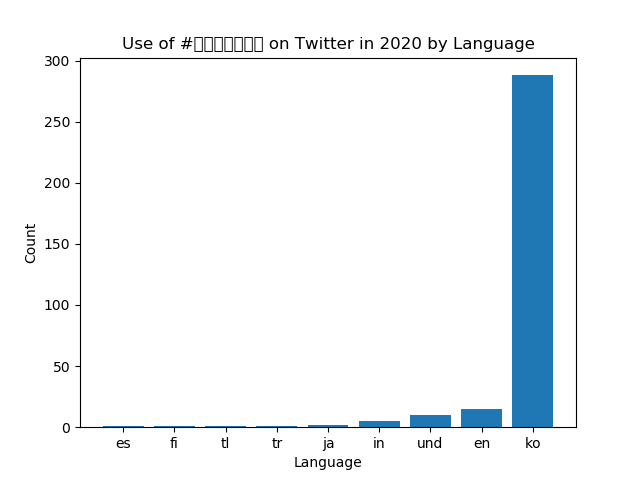
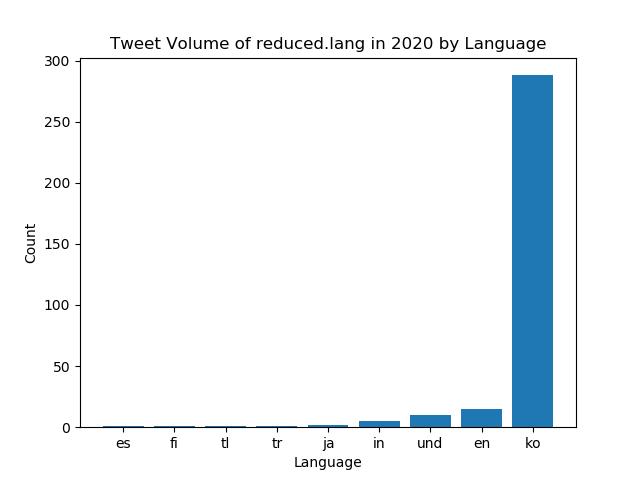
tinkering

Changed region(s): [[0.1562, 0.0625, 0.8438, 0.125]]

diff --git a/src/visualize.py b/src/visualize.py
@@ -15,7 +15,6 @@ from collections import Counter,defaultdict
 import matplotlib
 matplotlib.use('Agg')
 import matplotlib.pyplot as plt
-import numpy as np
 
 # open the input path
 with open(args.input_path) as f:
@@ -44,15 +43,18 @@ plt.xticks(range(len(keys)), keys)
 
 # set the title and axis labels
 if args.input_path[-1] == 'g':
-    plt.title('Use of ' + args.key.capitalize() + ' on Twitter in 2020 by Language')
+    plt.title('Tweet Volume of ' + args.input_path + ' in 2020 by Language')
     plt.xlabel('Language')
 else:
-    plt.title('Use of ' + args.key.capitalize() + ' on Twitter in 2020 by Country')
+    plt.title('Tweet Volume of ' + args.input_path + ' in 2020 by Country')
     plt.xlabel('Country')
 if args.percent:
     plt.ylabel('Percent of Total')
 else:
     plt.ylabel('Count')
+
+plt.rcParams["font.family"] = "Arial"
+plt.rcParams["font.size"] = 12
 
 # save the bar graph as a PNG file
 if args.input_path[-1] == 'g':
